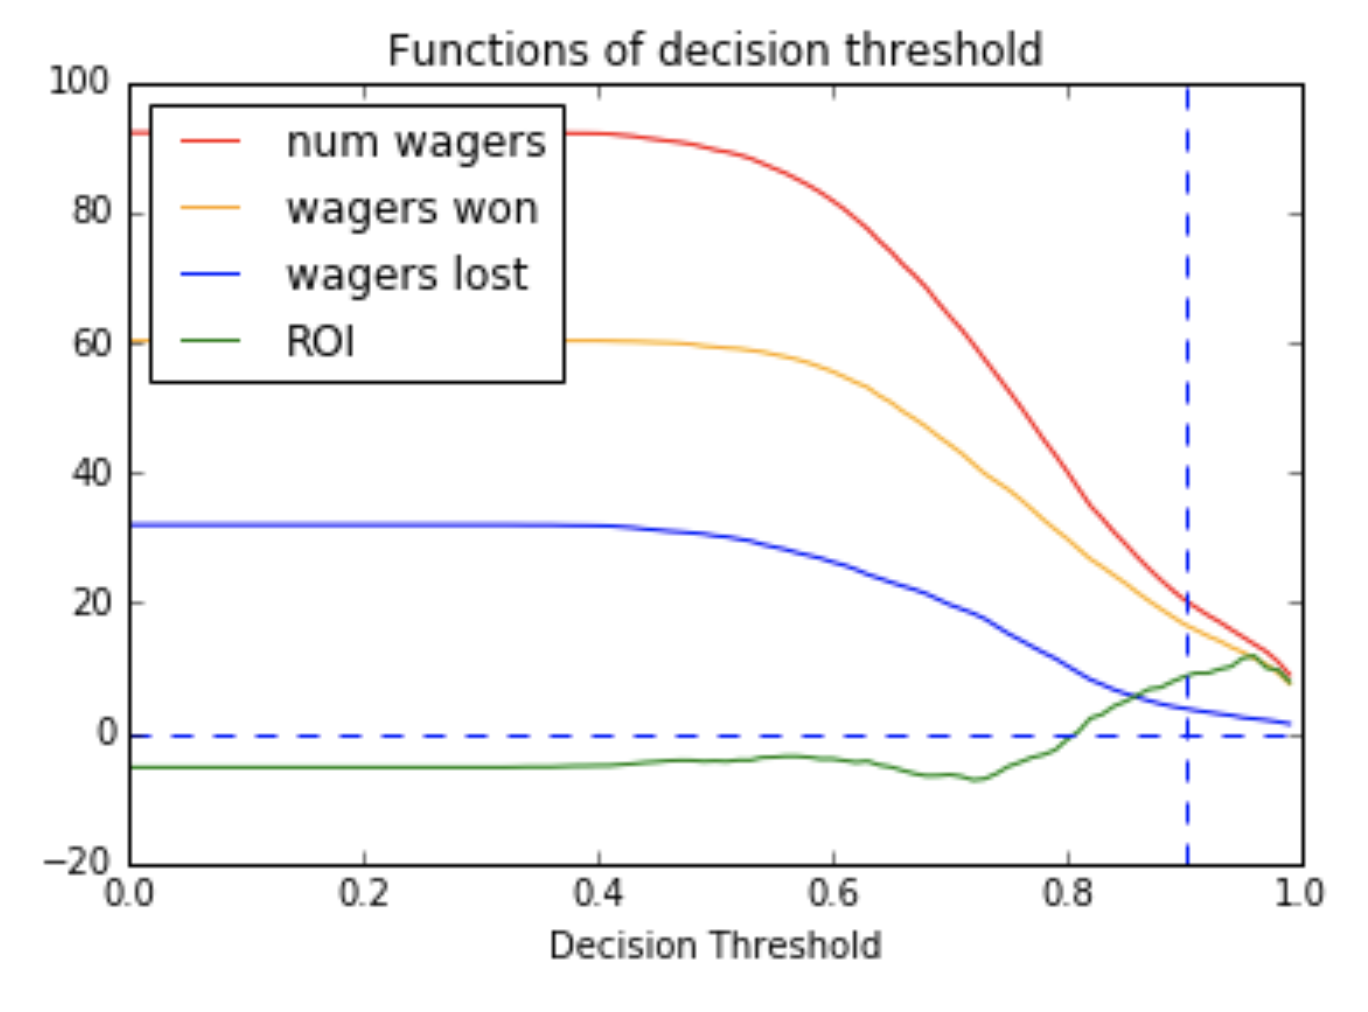
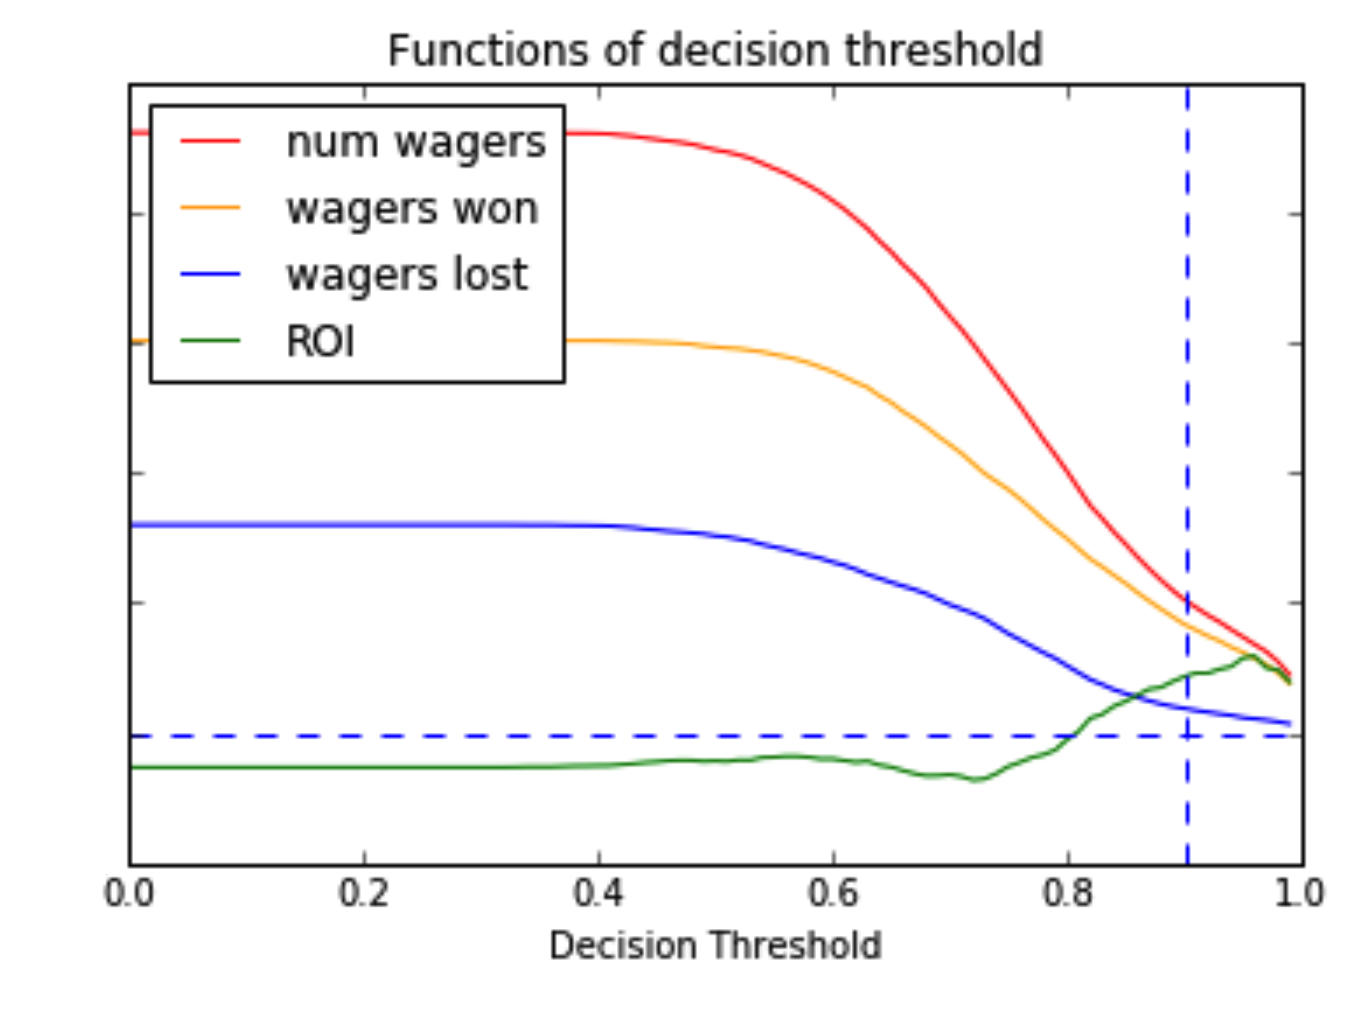
edited

diff --git a/output/author/matt-obrien.html b/output/author/matt-obrien.html
@@ -143,7 +143,7 @@ and  </p>
 <p><img alt="functions" src="https://github.com/mobbSF/blog/blob/master/images/slate.png?raw=true" /> </p>
 <p>How to mitigate this? I decided to create 100 models, evaluate each of them, and take averages.  </p>
 <p>To visually get a feel for the variance, I made a plot of these 100 models:  </p>
-<p><img alt="functions" src="https://github.com/mobbSF/blog/blob/master/images/cash100.png?raw=true" /> </p>
+<p><img alt="functions" src="https://github.com/mobbSF/blog/blob/master/images/cash_100.png?raw=true" /> </p>
 <p>Quite a lot of varaiance. Here's a plot of the average:</p>
 <p><img alt="functions" src="https://github.com/mobbSF/blog/blob/master/images/functions_100_mean.png?raw=true" /> </p>
 <p>It seems like the choice of 0.90 is still pretty conservative. But in gambling, perhaps conservative is okay.</p>

diff --git a/output/category/deep-learning.html b/output/category/deep-learning.html
@@ -143,7 +143,7 @@ and  </p>
 <p><img alt="functions" src="https://github.com/mobbSF/blog/blob/master/images/slate.png?raw=true" /> </p>
 <p>How to mitigate this? I decided to create 100 models, evaluate each of them, and take averages.  </p>
 <p>To visually get a feel for the variance, I made a plot of these 100 models:  </p>
-<p><img alt="functions" src="https://github.com/mobbSF/blog/blob/master/images/cash100.png?raw=true" /> </p>
+<p><img alt="functions" src="https://github.com/mobbSF/blog/blob/master/images/cash_100.png?raw=true" /> </p>
 <p>Quite a lot of varaiance. Here's a plot of the average:</p>
 <p><img alt="functions" src="https://github.com/mobbSF/blog/blob/master/images/functions_100_mean.png?raw=true" /> </p>
 <p>It seems like the choice of 0.90 is still pretty conservative. But in gambling, perhaps conservative is okay.</p>

diff --git a/output/deep-learning-for-sport-wagering-part-3-of-3.html b/output/deep-learning-for-sport-wagering-part-3-of-3.html
@@ -141,7 +141,7 @@ and  </p>
 <p><img alt="functions" src="https://github.com/mobbSF/blog/blob/master/images/slate.png?raw=true" /> </p>
 <p>How to mitigate this? I decided to create 100 models, evaluate each of them, and take averages.  </p>
 <p>To visually get a feel for the variance, I made a plot of these 100 models:  </p>
-<p><img alt="functions" src="https://github.com/mobbSF/blog/blob/master/images/cash100.png?raw=true" /> </p>
+<p><img alt="functions" src="https://github.com/mobbSF/blog/blob/master/images/cash_100.png?raw=true" /> </p>
 <p>Quite a lot of varaiance. Here's a plot of the average:</p>
 <p><img alt="functions" src="https://github.com/mobbSF/blog/blob/master/images/functions_100_mean.png?raw=true" /> </p>
 <p>It seems like the choice of 0.90 is still pretty conservative. But in gambling, perhaps conservative is okay.</p>

diff --git a/output/index.html b/output/index.html
@@ -143,7 +143,7 @@ and  </p>
 <p><img alt="functions" src="https://github.com/mobbSF/blog/blob/master/images/slate.png?raw=true" /> </p>
 <p>How to mitigate this? I decided to create 100 models, evaluate each of them, and take averages.  </p>
 <p>To visually get a feel for the variance, I made a plot of these 100 models:  </p>
-<p><img alt="functions" src="https://github.com/mobbSF/blog/blob/master/images/cash100.png?raw=true" /> </p>
+<p><img alt="functions" src="https://github.com/mobbSF/blog/blob/master/images/cash_100.png?raw=true" /> </p>
 <p>Quite a lot of varaiance. Here's a plot of the average:</p>
 <p><img alt="functions" src="https://github.com/mobbSF/blog/blob/master/images/functions_100_mean.png?raw=true" /> </p>
 <p>It seems like the choice of 0.90 is still pretty conservative. But in gambling, perhaps conservative is okay.</p>

diff --git a/output/tag/deep-learning.html b/output/tag/deep-learning.html
@@ -143,7 +143,7 @@ and  </p>
 <p><img alt="functions" src="https://github.com/mobbSF/blog/blob/master/images/slate.png?raw=true" /> </p>
 <p>How to mitigate this? I decided to create 100 models, evaluate each of them, and take averages.  </p>
 <p>To visually get a feel for the variance, I made a plot of these 100 models:  </p>
-<p><img alt="functions" src="https://github.com/mobbSF/blog/blob/master/images/cash100.png?raw=true" /> </p>
+<p><img alt="functions" src="https://github.com/mobbSF/blog/blob/master/images/cash_100.png?raw=true" /> </p>
 <p>Quite a lot of varaiance. Here's a plot of the average:</p>
 <p><img alt="functions" src="https://github.com/mobbSF/blog/blob/master/images/functions_100_mean.png?raw=true" /> </p>
 <p>It seems like the choice of 0.90 is still pretty conservative. But in gambling, perhaps conservative is okay.</p>

diff --git a/output/tag/sport.html b/output/tag/sport.html
@@ -143,7 +143,7 @@ and  </p>
 <p><img alt="functions" src="https://github.com/mobbSF/blog/blob/master/images/slate.png?raw=true" /> </p>
 <p>How to mitigate this? I decided to create 100 models, evaluate each of them, and take averages.  </p>
 <p>To visually get a feel for the variance, I made a plot of these 100 models:  </p>
-<p><img alt="functions" src="https://github.com/mobbSF/blog/blob/master/images/cash100.png?raw=true" /> </p>
+<p><img alt="functions" src="https://github.com/mobbSF/blog/blob/master/images/cash_100.png?raw=true" /> </p>
 <p>Quite a lot of varaiance. Here's a plot of the average:</p>
 <p><img alt="functions" src="https://github.com/mobbSF/blog/blob/master/images/functions_100_mean.png?raw=true" /> </p>
 <p>It seems like the choice of 0.90 is still pretty conservative. But in gambling, perhaps conservative is okay.</p>

diff --git a/output/tag/wagering.html b/output/tag/wagering.html
@@ -143,7 +143,7 @@ and  </p>
 <p><img alt="functions" src="https://github.com/mobbSF/blog/blob/master/images/slate.png?raw=true" /> </p>
 <p>How to mitigate this? I decided to create 100 models, evaluate each of them, and take averages.  </p>
 <p>To visually get a feel for the variance, I made a plot of these 100 models:  </p>
-<p><img alt="functions" src="https://github.com/mobbSF/blog/blob/master/images/cash100.png?raw=true" /> </p>
+<p><img alt="functions" src="https://github.com/mobbSF/blog/blob/master/images/cash_100.png?raw=true" /> </p>
 <p>Quite a lot of varaiance. Here's a plot of the average:</p>
 <p><img alt="functions" src="https://github.com/mobbSF/blog/blob/master/images/functions_100_mean.png?raw=true" /> </p>
 <p>It seems like the choice of 0.90 is still pretty conservative. But in gambling, perhaps conservative is okay.</p>

diff --git a/content/deep learning/boxing_003.md b/content/deep learning/boxing_003.md
@@ -118,17 +118,17 @@ I reran the project from top to bottom a few times, and found that indeed the th
 
 ![functions](https://github.com/mobbSF/blog/blob/master/images/slate.png?raw=true) 
 
-How to mitigate this? I decided to create 100 models, evaluate each of them, and take averages.  
-
 To visually get a feel for the variance, I made a plot of these 100 models:  
 
 ![functions](https://github.com/mobbSF/blog/blob/master/images/cash_100.png?raw=true) 
 
-Quite a lot of varaiance. Here's a plot of the average:
+That's quite a lot of varaiance. How to mitigate this? The idea is akin to ensembling the model with many different versions of itself. I decided to create 100 models, evaluate each of them, and take average for ROI, bets placed, cash balance, etc.  
+
+Here's a plot of the average:
 
 ![functions](https://github.com/mobbSF/blog/blob/master/images/functions_100_mean.png?raw=true) 
 
-It seems like the choice of 0.90 is still pretty conservative. But in gambling, perhaps conservative is okay.
+Notice how much smoother the line is than on the other plots. It seems like the choice of 0.90 is still pretty conservative. But in gambling, perhaps conservative is okay.
 
 With the bulk of the work now done, we can claim success.  
 
